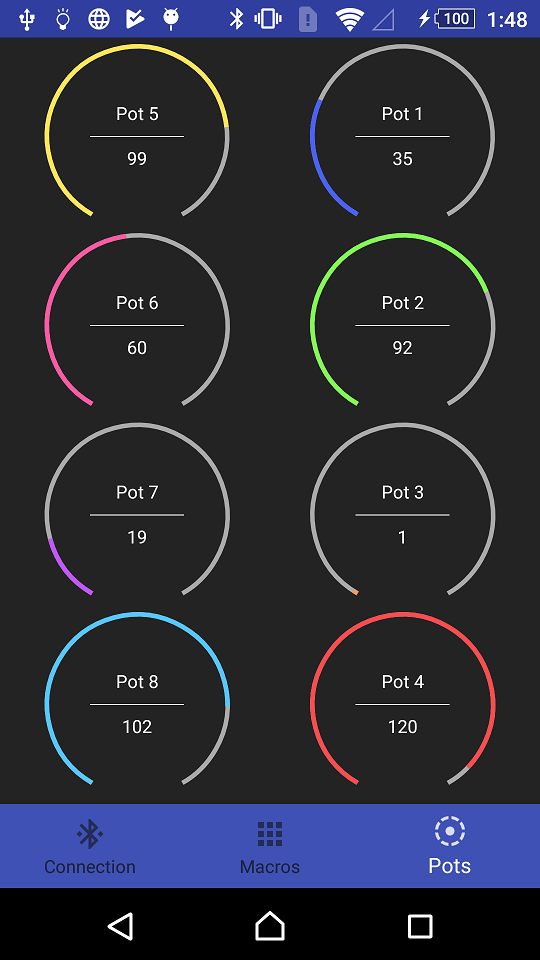
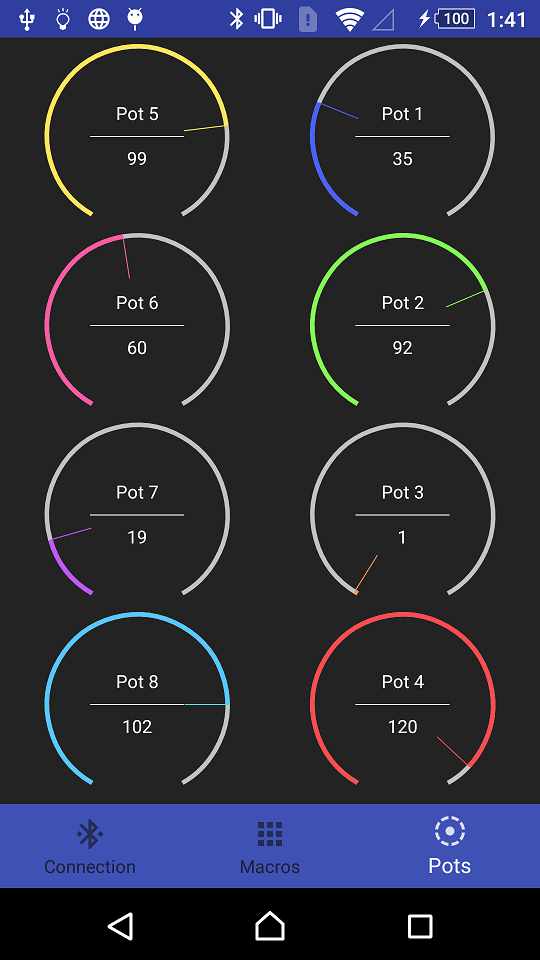
line for current pot value

diff --git a/app/src/main/java/com/siziksu/bluetooth/ui/view/custom/RoundedView.java b/app/src/main/java/com/siziksu/bluetooth/ui/view/custom/RoundedView.java
@@ -17,6 +17,8 @@ import com.siziksu.bluetooth.common.function.Func;
 public class RoundedView extends View implements RoundedViewContract {
 
     private static final int PADDING = 5;
+    private static final int START_ANGLE = 120;
+    private static final int SWEEP_ANGLE = 300;
 
     private boolean debug = false;
 
@@ -32,6 +34,8 @@ public class RoundedView extends View implements RoundedViewContract {
     private Paint rimPaint = new Paint();
     private int rimWidth = 20;
     private int rimColor = 0xAADDDDDD;
+
+    private Paint currentPositionPaint = new Paint();
 
     private Paint whitePaint = new Paint();
     private int whiteColor = 0xFFFFFFFF;
@@ -51,10 +55,16 @@ public class RoundedView extends View implements RoundedViewContract {
     private int centerY;
     private int radius;
     private int halfRadius;
-    private float degree = 0;
+    private float pointXa;
+    private float pointYa;
+    private float pointXb;
+    private float pointYb;
     private float dx;
     private float dy;
+
+    private int degree = 0;
     private int validDegree;
+
     private int validMidiValue;
     private int lastValidMidiValueSent;
 
@@ -127,23 +137,25 @@ public class RoundedView extends View implements RoundedViewContract {
     protected void onDraw(@NonNull Canvas canvas) {
         // Draw the rim
         if (rimWidth > 0) {
-            canvas.drawArc(rimBounds, 120, 300, false, rimPaint);
+            canvas.drawArc(rimBounds, START_ANGLE, SWEEP_ANGLE, false, rimPaint);
         }
         // Draw the bar
         if (barWidth > 0) {
-            canvas.drawArc(barBounds, 120, validDegree, false, barPaint);
+            canvas.drawArc(barBounds, START_ANGLE, validDegree, false, barPaint);
         }
         // Draw horizontal line
         canvas.drawLine(centerX - halfRadius, centerY, centerX + halfRadius, centerY, whitePaint);
+        // Draw current value line
+        calculateLinePointsForCurrentValue();
+        canvas.drawLine(pointXb, pointYb, pointXa, pointYa, currentPositionPaint);
         // Draw the text below horizontal line
-        textX = centerX;
-        textY = (int) (centerY - ((textPaint.descent() + textPaint.ascent()) / 2) + textMargin);
+        calculateTextCoordinates();
         canvas.drawText(text, textX, textY, textPaint);
         if (potNumber != 0) {
-            textY = (int) (centerY - ((textPaint.descent() + textPaint.ascent()) / 2) - textMargin);
+            // Draw pot number
+            calculatePotTextCoordinates();
             canvas.drawText("Pot " + String.valueOf(potNumber), textX, textY, textPaint);
         }
-
         if (debug) {
             canvas.drawLine(centerX - halfRadius, centerY, centerX + halfRadius, centerY, whitePaint);
             canvas.drawLine(centerX, centerY - halfRadius, centerX, centerY + halfRadius, whitePaint);
@@ -228,16 +240,36 @@ public class RoundedView extends View implements RoundedViewContract {
         whitePaint.setStrokeWidth(2);
         whitePaint.setTypeface(Typeface.create(Typeface.DEFAULT, textStyle));
         whitePaint.setTextAlign(Paint.Align.CENTER);
+
+        currentPositionPaint.setAntiAlias(true);
+        currentPositionPaint.setColor(barColor);
+        currentPositionPaint.setStrokeWidth(2);
+    }
+
+    private void calculateTextCoordinates() {
+        textX = centerX;
+        textY = (int) (centerY - ((textPaint.descent() + textPaint.ascent()) / 2) + textMargin);
+    }
+
+    private void calculatePotTextCoordinates() {
+        textY = (int) (centerY - ((textPaint.descent() + textPaint.ascent()) / 2) - textMargin);
+    }
+
+    private void calculateLinePointsForCurrentValue() {
+        pointXa = centerX + (float) ((radius - barWidth) * Math.cos(Math.toRadians(validDegree + START_ANGLE)));
+        pointYa = centerY + (float) ((radius - barWidth) * Math.sin(Math.toRadians(validDegree + START_ANGLE)));
+        pointXb = centerX + (float) ((radius - halfRadius) * Math.cos(Math.toRadians(validDegree + START_ANGLE)));
+        pointYb = centerY + (float) ((radius - halfRadius) * Math.sin(Math.toRadians(validDegree + START_ANGLE)));
     }
 
     private void calculateDegree() {
-        degree = (float) Math.toDegrees(Math.atan2(dy, dx));
+        degree = (int) Math.toDegrees(Math.atan2(dy, dx));
         degree = (degree < 0) ? degree + 360 : degree;
         degree -= 90;
         degree = (degree < 0) ? 360 + degree : degree;
         degree -= 30;
-        validDegree = degree >= 0 && degree <= 318 ? (int) degree : validDegree;
-        validDegree = validDegree > 300 ? 300 : validDegree;
+        validDegree = degree >= 0 && degree <= 318 ? degree : validDegree;
+        validDegree = validDegree > SWEEP_ANGLE ? SWEEP_ANGLE : validDegree;
         setText();
     }
 
